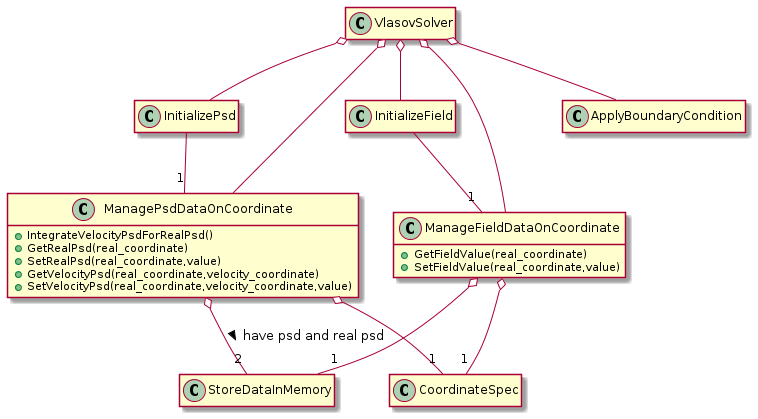
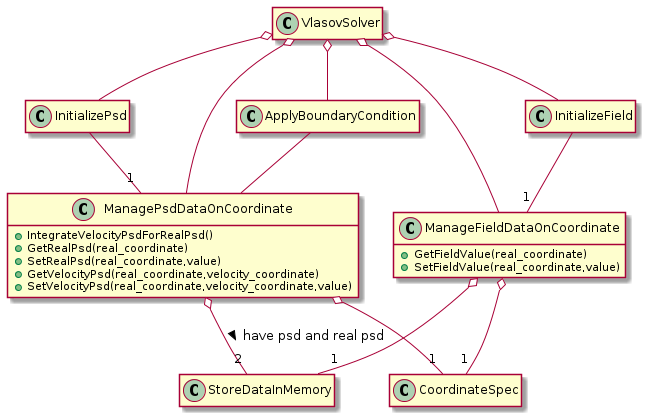
design change and const

diff --git a/src/initialize_psd.cpp b/src/initialize_psd.cpp
@@ -5,18 +5,18 @@ namespace initialize_psd{
 
 
     InitializePsd::InitializePsd(
-        const store_data_in_memory_array::StoreDataInMemoryArray& in_psd_store_data_in_memory_array,
-        const coordinate_spec::CoordinateSpec& in_coordinate_spec)
-    :psd_store_data_in_memory_array_(in_psd_store_data_in_memory_array)
-    ,coordinate_spec_(in_coordinate_spec)
+        const manage_psd_data_on_coordinate::ManagePsdDataOnCoordinate& in_manage_psd)
+    :manage_psd_(in_manage_psd)
     {}
 
     void InitializePsd::TestInitializeBy0and1(){
-        for(int i = 0;i<psd_store_data_in_memory_array_.get_data_in_memory_elements_num_();i++){
-            for(int j = 0;j<psd_store_data_in_memory_array_.get_buffer_num_();j++){
-                psd_store_data_in_memory_array_.get_data_in_memory_array_()[i][j] = j;
-            }
-        }
+
+        coordinate_spec::CoordinateSpec coordinate_spec = manage_psd_.get_coordinate_spec_();
+
+       // std::vector<int_fast32_t> num_focus_real_elements()
+
+        //manage_psd_.SetRealPsd();
+       
     }
 
 

diff --git a/include/initialize_psd.hpp b/include/initialize_psd.hpp
@@ -2,20 +2,18 @@
 #ifndef HEEMBP_INCLUDE_INITIALIZE_PSD
 #define HEEMBP_INCLUDE_INITIALIZE_PSD
 
-#include "../include/store_data_in_memory_array.hpp"
-#include "../include/coordinate_spec.hpp"
+#include "../include/manage_psd_data_on_coordinate.hpp"
 
 namespace heemodbypuls{
 namespace initialize_psd{
 
 class InitializePsd{
-    const store_data_in_memory_array::StoreDataInMemoryArray& psd_store_data_in_memory_array_;
-    const coordinate_spec::CoordinateSpec& coordinate_spec_;
+    const manage_psd_data_on_coordinate::ManagePsdDataOnCoordinate& manage_psd_;
 
 public:
     explicit InitializePsd(
-        const store_data_in_memory_array::StoreDataInMemoryArray& in_psd_store_data_in_memory_array,
-        const coordinate_spec::CoordinateSpec& in_coordinate_spec);
+        const manage_psd_data_on_coordinate::ManagePsdDataOnCoordinate& in_manage_psd
+    );
 
     void TestInitializeBy0and1();
 

diff --git a/src/manage_psd_data_on_coordinate.cpp b/src/manage_psd_data_on_coordinate.cpp
@@ -127,7 +127,7 @@ namespace manage_psd_data_on_coordinate{
 
     }
 
-    void ManagePsdDataOnCoordinate::SetRealPsd(std::vector<int_fast32_t> num_focus_real_elements,double set_val){
+    void ManagePsdDataOnCoordinate::SetRealPsd(std::vector<int_fast32_t> num_focus_real_elements,double set_val)const {
 
         std::int_fast32_t num_psd_need_on_array = GetNumArrayFromCoordinateOnRealPsdArray(num_focus_real_elements);
 
@@ -137,7 +137,7 @@ namespace manage_psd_data_on_coordinate{
     }
 
     void ManagePsdDataOnCoordinate::SetVelocityPsd(std::vector<int_fast32_t> num_focus_real_elements,
-    std::vector<int_fast32_t> num_focus_velocity_elements,double set_val){
+    std::vector<int_fast32_t> num_focus_velocity_elements,double set_val)const{
 
         std::int_fast32_t num_psd_need_on_array = GetNumArrayFromCoordinateOnAllPsdArray(num_focus_real_elements,num_focus_velocity_elements);
 

diff --git a/include/manage_psd_data_on_coordinate.hpp b/include/manage_psd_data_on_coordinate.hpp
@@ -42,12 +42,12 @@ public:
 
     double GetVelocityPsd(std::vector<int_fast32_t> num_focus_real_elements,std::vector<int_fast32_t> num_focus_velocity_elements) const;
 
-    void SetRealPsd(std::vector<int_fast32_t> num_focus_real_elements,double set_val);
+    void SetRealPsd(std::vector<int_fast32_t> num_focus_real_elements,double set_val)const;
 
     void SetVelocityPsd(std::vector<int_fast32_t> num_focus_real_elements,
-    std::vector<int_fast32_t> num_focus_velocity_elements,double set_val);
+    std::vector<int_fast32_t> num_focus_velocity_elements,double set_val)const;
 
-     coordinate_spec::CoordinateSpec get_coordinate_spec_(){
+     coordinate_spec::CoordinateSpec get_coordinate_spec_() const {
         return coordinate_spec_;
     }
 

diff --git a/include/manage_field_data_on_coordinate.hpp b/include/manage_field_data_on_coordinate.hpp
@@ -31,9 +31,9 @@ public:
 
     std::vector<std::int_fast32_t> GetFieldValue (std::int_fast32_t num_field_identify,std::vector<std::int_fast32_t> num_focus_real_elements) const;
 
-    void SetFieldValue (std::int_fast32_t num_field_identify,std::vector<std::int_fast32_t> num_focus_real_elements,std::vector<int_fast32_t> set_value);
+    void SetFieldValue (std::int_fast32_t num_field_identify,std::vector<std::int_fast32_t> num_focus_real_elements,std::vector<int_fast32_t> set_value)const;
 
-    coordinate_spec::CoordinateSpec get_coordinate_spec_(){
+    coordinate_spec::CoordinateSpec get_coordinate_spec_()const{
         return coordinate_spec_;
     }
 

diff --git a/src/manage_field_data_on_coordinate.cpp b/src/manage_field_data_on_coordinate.cpp
@@ -81,7 +81,7 @@ namespace manage_field_data_on_coordinate{
     void ManageFieldDataOnCoordinate::SetFieldValue (
         std::int_fast32_t num_field_identify,
         std::vector<std::int_fast32_t> num_focus_real_elements,
-        std::vector<int_fast32_t> set_value)
+        std::vector<int_fast32_t> set_value) const
     {
 
 
